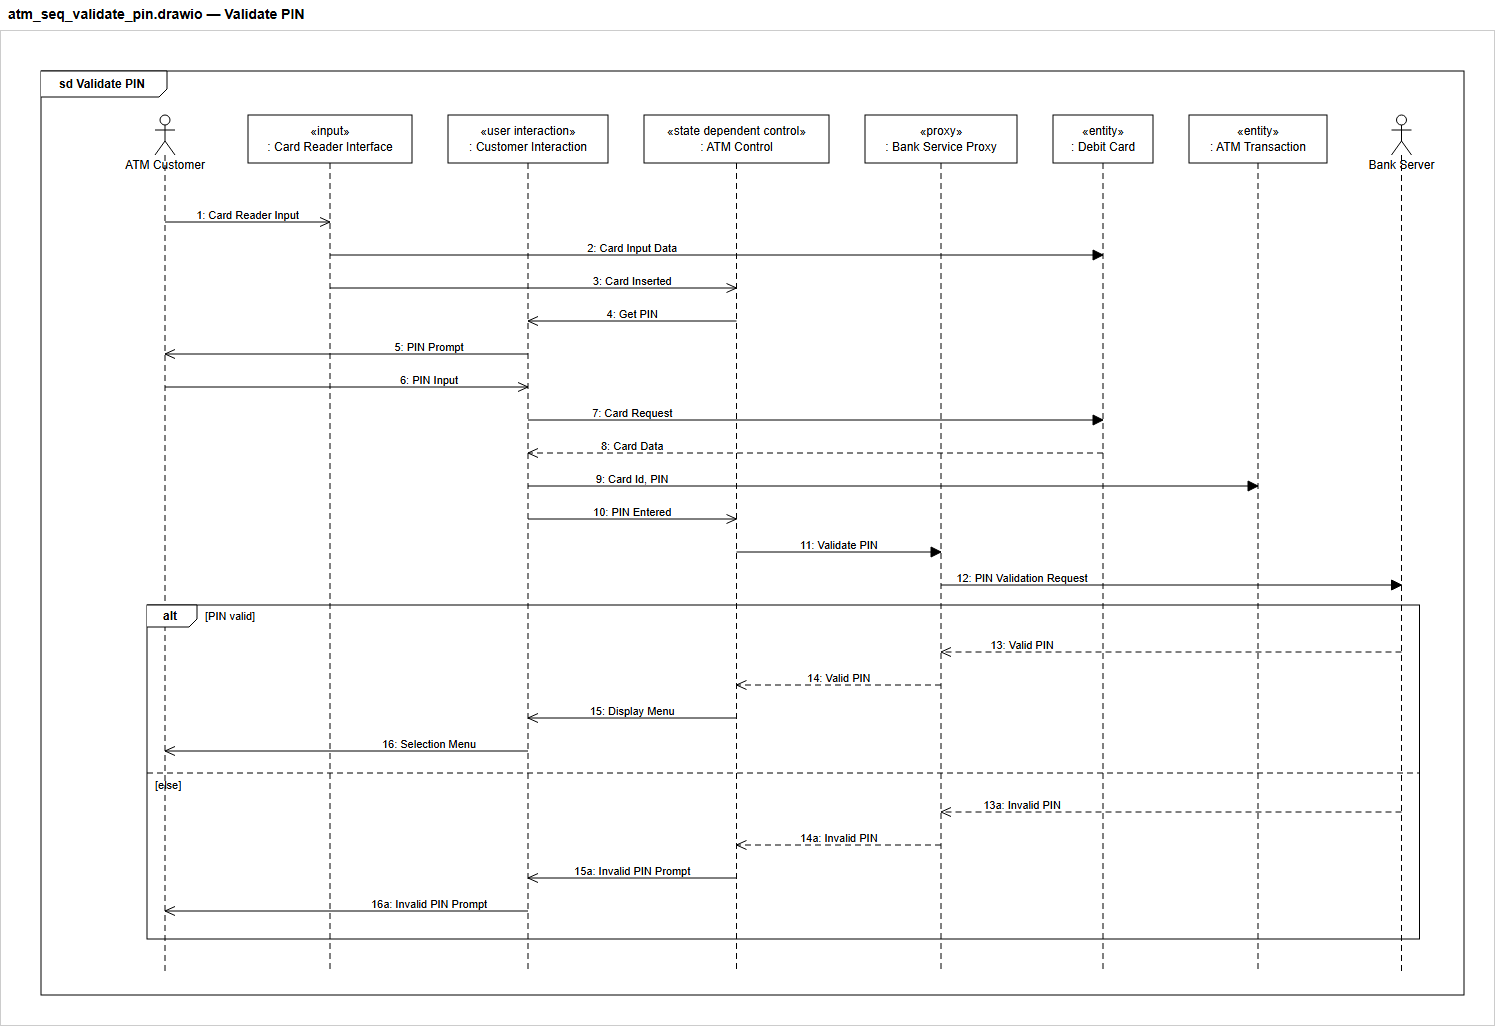
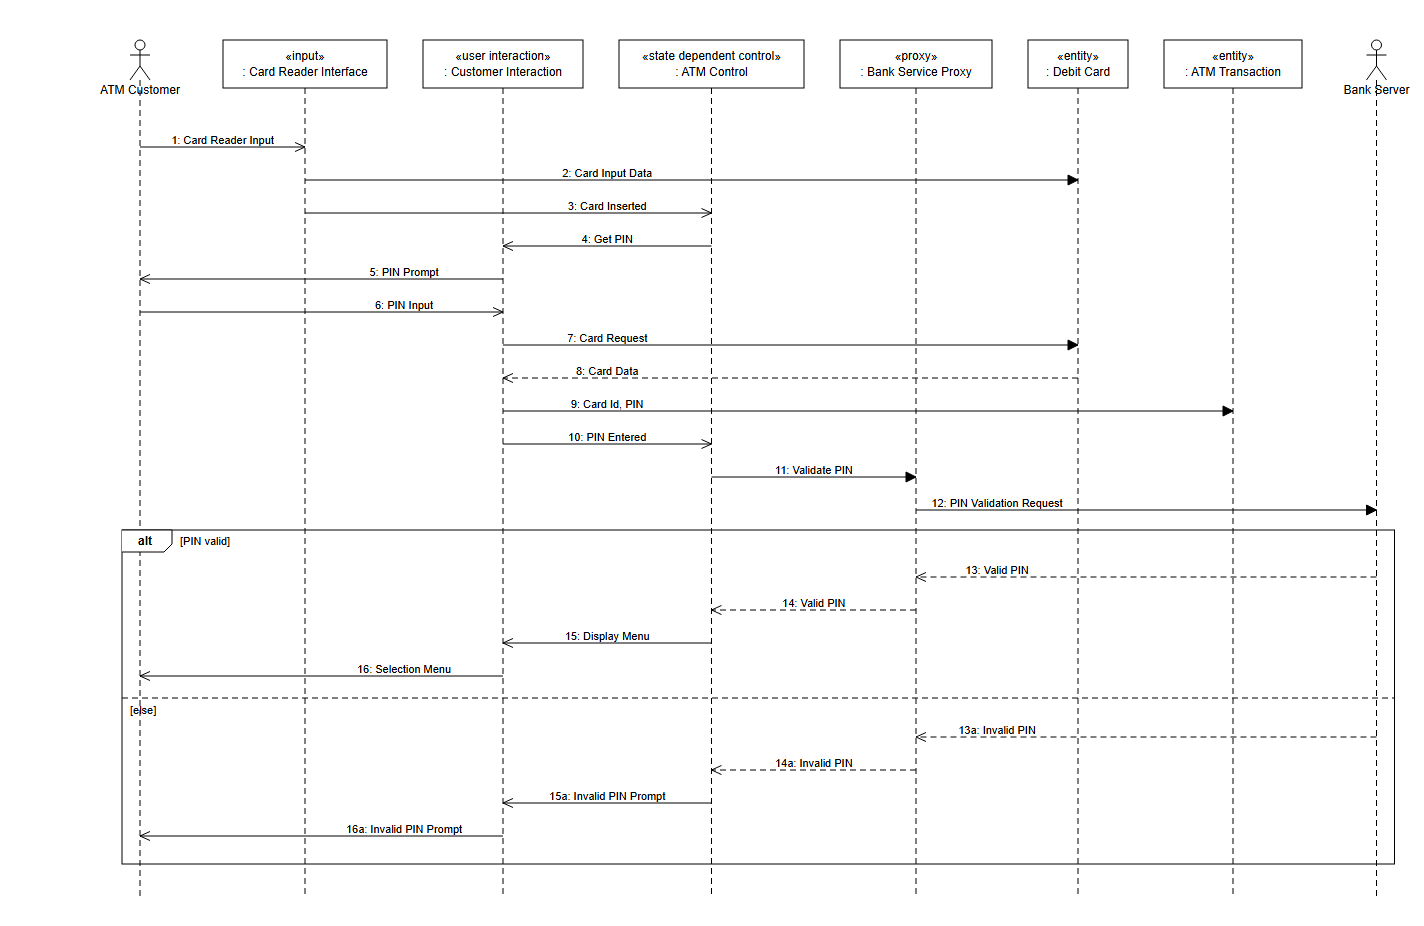
feat: no outer UML frame by default, PNG previews show only the diagram
All diagram types now render without the outer UML frame unless the spec sets
"frame": true. PNG previews drop the caption and border. README images regenerated.

diff --git a/comet-uml-drawio/tests/run_tests.py b/comet-uml-drawio/tests/run_tests.py
@@ -580,7 +580,8 @@ class TestGenerator(unittest.TestCase):
             self.assertEqual((style(e).get("dashed"), style(e).get("endArrow")), ("1", "open"))
         self.assertIn("[receipt requested]", text(ext))
         self.assertEqual(style(edge_between(cs, "cust", "wd")).get("endArrow"), "none")
-        self.assertEqual(text(cs["diagram_frame"]), "uc ATM")
+        self.assertNotIn("diagram_frame", cs)      # mac dinh khong khung ngoai
+        self.assertEqual(text(cells(gen(dict(UC_SPEC, frame=True))[0])["diagram_frame"]), "uc ATM")
 
     def test_usecase_edges_are_straight(self):
         # canh use case la doan thang (toi da mot goc khi phai vong qua hinh), khong be vuong
@@ -632,7 +633,7 @@ class TestGenerator(unittest.TestCase):
         self.assertEqual(text(edge_between(cs, "ch", "val")), "[else] / Invalid PIN Prompt")
         self.assertEqual(text(edge_between(cs, "menu", "menu")), "Tick")        # self-transition
         self.assertEqual(text(edge_between(cs, "i", "idle")), "")
-        self.assertEqual(text(cs["diagram_frame"]), "stm ATM Control")
+        self.assertEqual(text(cells(gen(dict(STATE_SPEC, frame=True))[0])["diagram_frame"]), "stm ATM Control")
         self.assertEqual(check(STATE_SPEC)[:2], ([], []))
 
     def test_pseudostate_shapes(self):
@@ -828,11 +829,11 @@ class TestGenerator(unittest.TestCase):
 
     def test_frame_and_escaping(self):
         sp = {"diagram": "state", "title": "R&D <Lab>", "elements": [{"id": "s", "type": "state", "name": "A & B <x>"}]}
-        xml, _ = gen(sp)
+        xml, _ = gen(dict(sp, frame=True))
         cs = cells(xml)
         self.assertEqual(text(cs["diagram_frame"]), "stm R&D <Lab>")
         self.assertEqual(text(cs["s"]), "A & B <x>")
-        cs = cells(gen(dict(sp, frame=False))[0])
+        cs = cells(gen(sp)[0])                      # mac dinh khong khung
         self.assertFalse(any("umlFrame" in (c.get("style") or "") for c in cs.values()))
 
 

diff --git a/comet-uml-drawio/scripts/preview_svg.py b/comet-uml-drawio/scripts/preview_svg.py
@@ -382,12 +382,11 @@ def main():
         png = "%s.png" % stem if len(pages) == 1 else "%s_p%d.png" % (stem, i)
         tmp = "%s_p%d.tmp.html" % (stem, i)
         with open(tmp, "w", encoding="utf-8") as fh:
-            fh.write('<!doctype html><meta charset="utf-8"><body style="margin:0;background:#fff">'
-                     '<div style="font:bold 14px sans-serif;padding:6px 8px;height:18px;white-space:nowrap">'
-                     '%s</div>%s</body>' % (html.escape(title), svg))
+            # anh chi co so do: khong dong tieu de, khong vien (tieu de van co trong preview.html)
+            fh.write('<!doctype html><meta charset="utf-8"><body style="margin:0;background:#fff">%s</body>'
+                     % svg.replace(";border:1px solid #ccc", "", 1))
         try:
-            # so do hep: noi rong cua so theo tieu de de khong bi cat chu
-            ok = shoot(browser, tmp, png, max(w + 4, int(len(title) * 8.5) + 24), h + 36)
+            ok = shoot(browser, tmp, png, w, h)
         finally:
             os.remove(tmp)
         print(("Da chup: %s  (%s)" if ok else "Chup that bai: %s  (%s)") % (png, title))

diff --git a/comet-uml-drawio/scripts/uml2drawio.py b/comet-uml-drawio/scripts/uml2drawio.py
@@ -1966,7 +1966,7 @@ def build_bizcontext(spec, warns, origin):
 def build_page(spec, warns):
     diagram = str(spec.get("diagram", "class")).lower()
     spec["diagram"] = diagram
-    use_frame = spec.get("frame", not (diagram == "bizcontext" or sitemap_mode(spec) or chen_mode(spec)))
+    use_frame = bool(spec.get("frame", False))   # mac dinh chi ve so do, khong khung UML ngoai
     title = spec.get("title") or spec.get("useCase") or spec.get("name") or diagram
     kind = FRAME_KIND.get(diagram, "")
     flabel = "%s %s" % (kind, title) if kind else title

diff --git a/comet-uml-drawio/references/spec-format.md b/comet-uml-drawio/references/spec-format.md
@@ -10,13 +10,13 @@ trung tâm trước, quan hệ theo luồng chính trước).
 | Trường | Bắt buộc | Ý nghĩa |
 |---|---|---|
 | `diagram` | ✔ | `usecase` · `context` · `class` · `communication` · `sequence` · `state` · `activity` · `component` · `deployment` · `package` · `erd` · `screenflow` · `bizcontext` |
-| `title` | | Tên hiển thị trên khung (`uc Title`, `sd Title`...) |
+| `title` | | Tên sơ đồ (tên trang draw.io; nhãn khung `uc Title`, `sd Title`... khi bật `frame`) |
 | `lang` | | Ngôn ngữ chữ trên sơ đồ, mặc định `"en"` – mọi chữ viết tiếng Anh. Chỉ đặt `"vi"`… khi người dùng yêu cầu rõ ngôn ngữ khác (không đặt mà có chữ có dấu → L1) |
 | `useCase` | tương tác | Tên use case mà communication/sequence hiện thực (khớp R1) |
 | `stateMachineOf` | state | Tên lớp «state dependent control» (khớp R7/R8) |
 | `system` | usecase | Tên hệ thống trên system boundary (mặc định = `title`) |
 | `direction` | | `TB` (trên→dưới) hoặc `LR` (trái→phải). Mặc định `LR` cho usecase/communication/activity, `TB` còn lại |
-| `frame` | | `false` để bỏ khung UML ngoài (bizcontext, screenflow sitemap, ERD Chen mặc định không khung – `true` để vẽ) |
+| `frame` | | Mặc định không vẽ khung UML ngoài (chỉ có sơ đồ); `true` → thêm khung + nhãn `uc`/`sd`/`act`… |
 | `autonumber` | | communication: tự đánh số message nếu thiếu `seq` (mặc định true); sequence: mặc định false |
 | `elements` | ✔ | Danh sách phần tử |
 | `relations` | | Danh sách quan hệ (không dùng cho sequence) |

diff --git a/comet-uml-drawio/references/uml-notation.md b/comet-uml-drawio/references/uml-notation.md
@@ -75,7 +75,8 @@ Multiplicity/role đặt sát đầu mút: `fromMult`, `toMult`, `fromRole`, `to
 ## Khung sơ đồ (diagram frame)
 
 UML 2 khuyến nghị khung ngoài với nhãn ngũ giác ở góc trái trên: `uc`, `class`, `sd`, `stm`, `act`,
-`cmp`, `deployment`, `pkg` + tên. Script tự thêm (tắt bằng `"frame": false`).
+`cmp`, `deployment`, `pkg` + tên. Script mặc định **không** vẽ khung (chỉ sơ đồ, dễ chèn vào báo cáo); cần khung
+thì đặt `"frame": true`.
 
 ## Quy tắc trình bày
 
